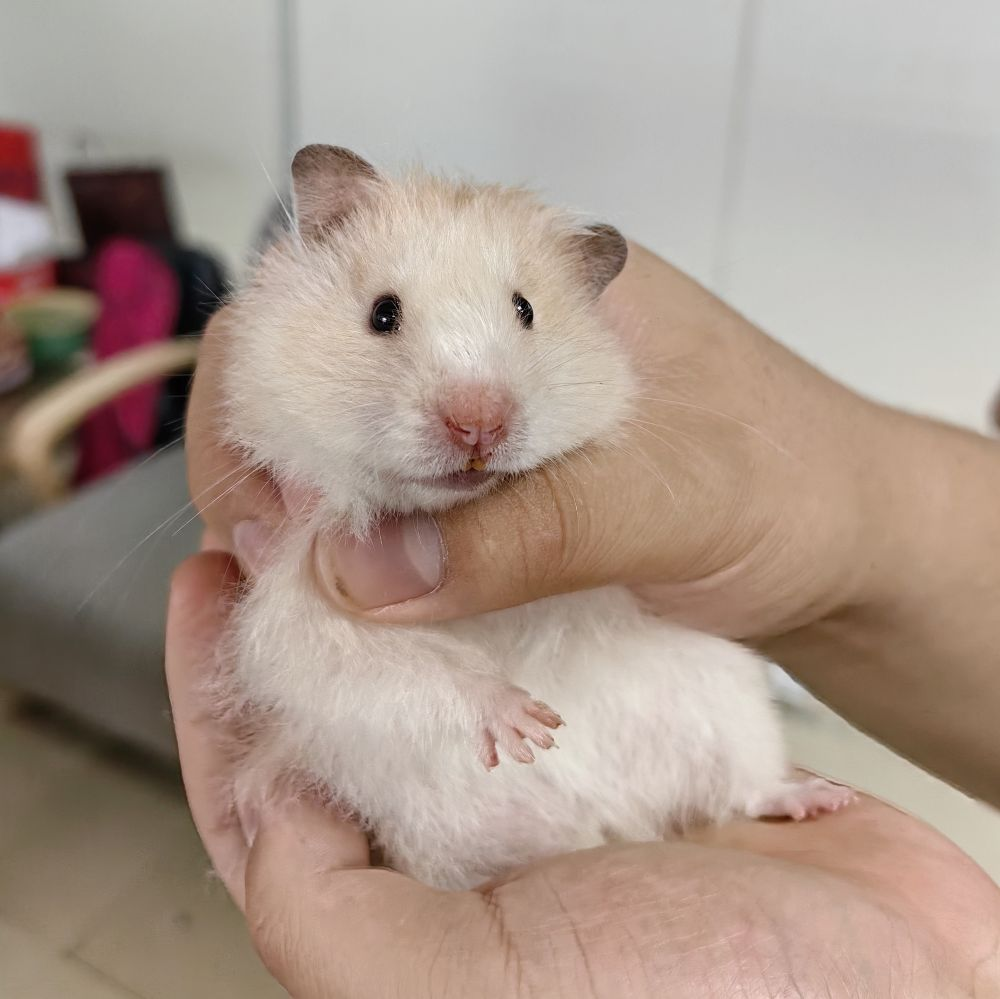
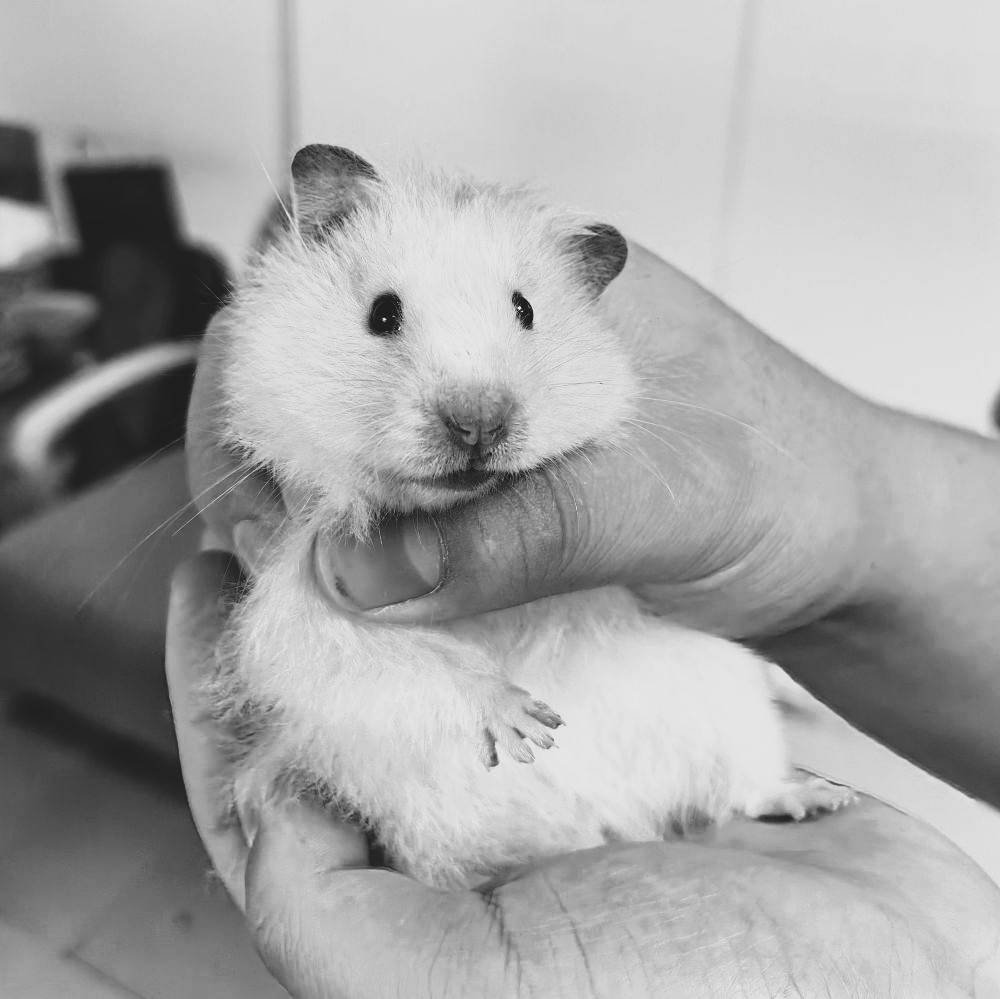
update tuantuan's photo

diff --git a/people.html b/people.html
@@ -932,9 +932,9 @@
               </div>
               <div class="member-info">
                 <h4>Cluster (团团)</h4>
-                <span>Chief Psychotherapist (hamster)</span><br>
+                <span>Chief Psychotherapist (hamster, ?-2026)</span><br>
                 <p>Research interests: <span>Regulation of human stress emotions</span></p>
-                <p>Personal webpage: <span>ask people in 720</span></p>
+                <p>Personal webpage: <span>In memory. RIP</span></p>
                 <p>Email: <span>tuantuan720ATccg.cn</span></p>
               </div>
             </div>
@@ -947,7 +947,7 @@
               </div>
               <div class="member-info">
                 <h4>Node (点点) & Filament (线线)</h4>
-                <span>Trainee Psychotherapist (fancy rats)</span><br>
+                <span>Psychotherapist (fancy rats)</span><br>
                 <p>Research interests: <span>Sleep, eat, and play</span></p>
                 <p>Personal webpage: <span>ask people in 720</span></p>
                 <p>Email: <span>mice720ATccg.cn</span></p>
